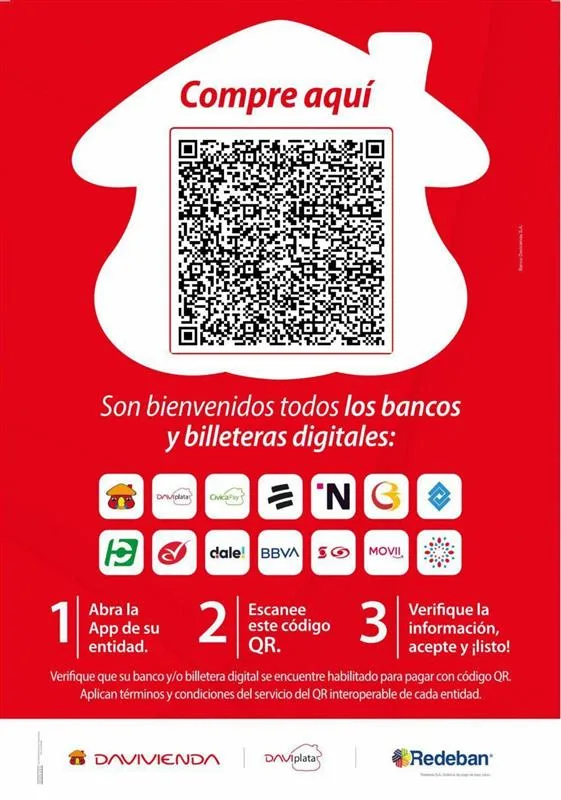
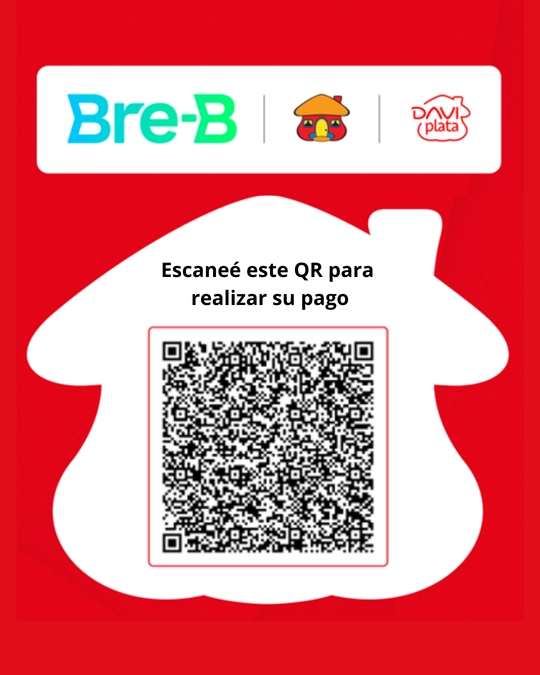
✨ update breb account

diff --git a/packages/frontend/src/components/booking/BookingStepPayment/BookingStepPayment.tsx b/packages/frontend/src/components/booking/BookingStepPayment/BookingStepPayment.tsx
@@ -11,7 +11,7 @@ type BookingStepPaymentProps = {
   quoteTotal?: number | null;
 };
 
-const BREB_KEY = "@PLATA3123715177";
+const BREB_KEY = "@PLATA3133815138";
 const DEPOSIT_AMOUNT_COP = 50000;
 const WHATSAPP_NUMBER = "3181278688";
 const WHATSAPP_BASE_URL = "https://wa.me/573181278688";
@@ -180,8 +180,8 @@ export default function BookingStepPayment({
                 {copyState === "copied"
                   ? t("booking.payment.copy.copied")
                   : copyState === "failed"
-                  ? t("booking.payment.copy.failed")
-                  : t("booking.payment.copy.idle")}
+                    ? t("booking.payment.copy.failed")
+                    : t("booking.payment.copy.idle")}
               </button>
               <a className="booking-code__link" href={consultUrl}>
                 {t("booking.payment.consultStatusLink")}
